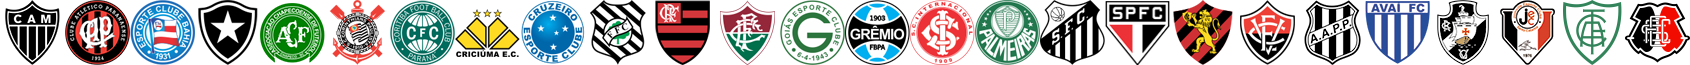
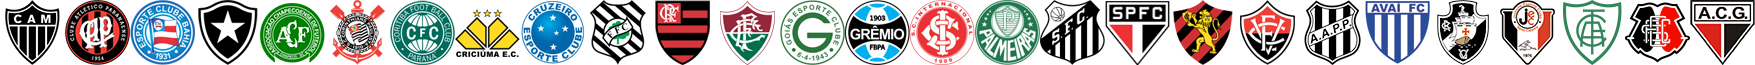
ADD ATG
ADDIN ATG

diff --git a/css/style.css b/css/style.css
@@ -272,7 +272,7 @@ h3{ height:30px; line-height:30px; font-size:15px; color:#fff; background:#444; 
 				.credits a:hover
 				{ text-decoration:none;}
 			
-.slug-22x22{ width:22px; height:22px; float:left; background:url(../images/slugs22x22.png?cache=disabled&v=2015.1) no-repeat;}
+.slug-22x22{ width:22px; height:22px; float:left; background:url(../images/slugs22x22_2016.png?cache=disabled&v=2017.1) no-repeat;}
 .slug-22x22atletico-mg{ background-position:0px 0px;}
 .slug-22x22atletico-pr{ background-position:-22px 0px;}
 .slug-22x22bahia{ background-position:-44px 0px;}
@@ -299,8 +299,9 @@ h3{ height:30px; line-height:30px; font-size:15px; color:#fff; background:#444; 
 .slug-22x22joinville{ background-position:-506px 0px;}
 .slug-22x22america-mg{ background-position:-528px 0px;}
 .slug-22x22santa-cruz{ background-position:-550px 0px;}
+.slug-22x22atletico-go{ background-position:-832px 0px;}
 
-.slug-32x32{ width:32px; height:32px; float:left; background:url(../images/slugs32x32.png?cache=disabled&v=2015.1) no-repeat;}
+.slug-32x32{ width:32px; height:32px; float:left; background:url(../images/slugs32x32_2016.png?cache=disabled&v=2017.1) no-repeat;}
 .slug-32x32atletico-mg{ background-position:0px 0px;}
 .slug-32x32atletico-pr{ background-position:-32px 0px;}
 .slug-32x32bahia{ background-position:-64px 0px;}
@@ -327,8 +328,9 @@ h3{ height:30px; line-height:30px; font-size:15px; color:#fff; background:#444; 
 .slug-32x32joinville{ background-position:-736px 0px;}
 .slug-32x32america-mg{ background-position:-768px 0px;}
 .slug-32x32santa-cruz{ background-position:-800px 0px;}
+.slug-32x32atletico-go{ background-position:-832px 0px;}
 
-.slug-65x65{ width:65px; height:65px; float:left; background:url(../images/slugs65x65.png?cache=disabled&v=2015.1) no-repeat;}
+.slug-65x65{ width:65px; height:65px; float:left; background:url(../images/slugs65x65_2016.png?cache=disabled&v=2017.1) no-repeat;}
 .slug-65x65atletico-mg{ background-position:0px 0px;}
 .slug-65x65atletico-pr{ background-position:-65px 0px;}
 .slug-65x65bahia{ background-position:-130px 0px;}
@@ -355,3 +357,4 @@ h3{ height:30px; line-height:30px; font-size:15px; color:#fff; background:#444; 
 .slug-65x65joinville{ background-position:-1495px 0px;}
 .slug-65x65america-mg{ background-position:-1560px 0px;}
 .slug-65x65santa-cruz{ background-position:-1625px 0px;}
+.slug-65x65atletico-go{ background-position:-832px 0px;}
